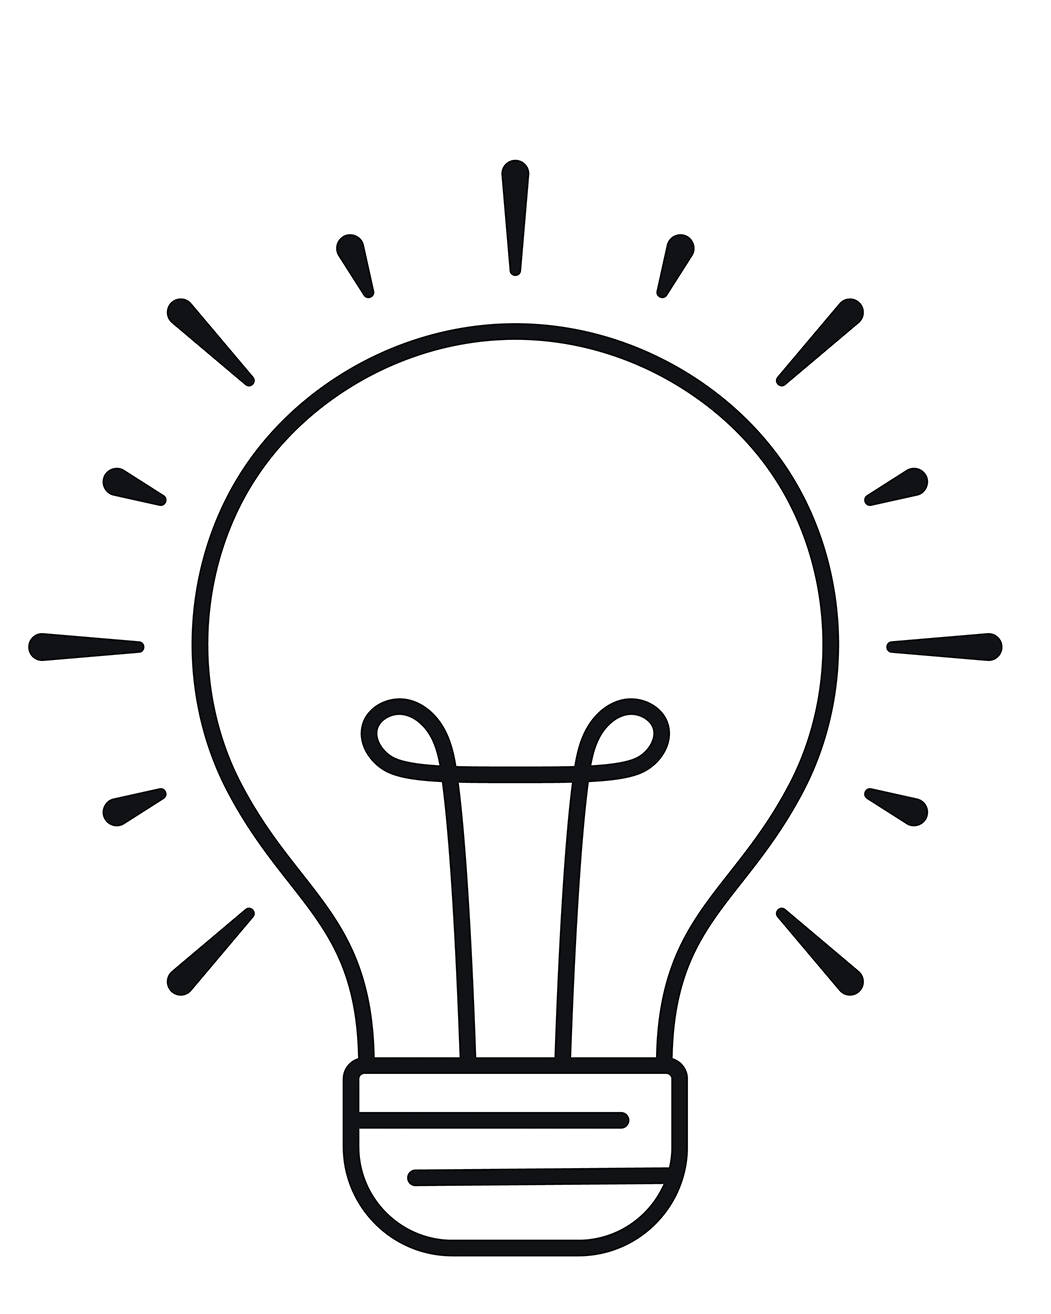
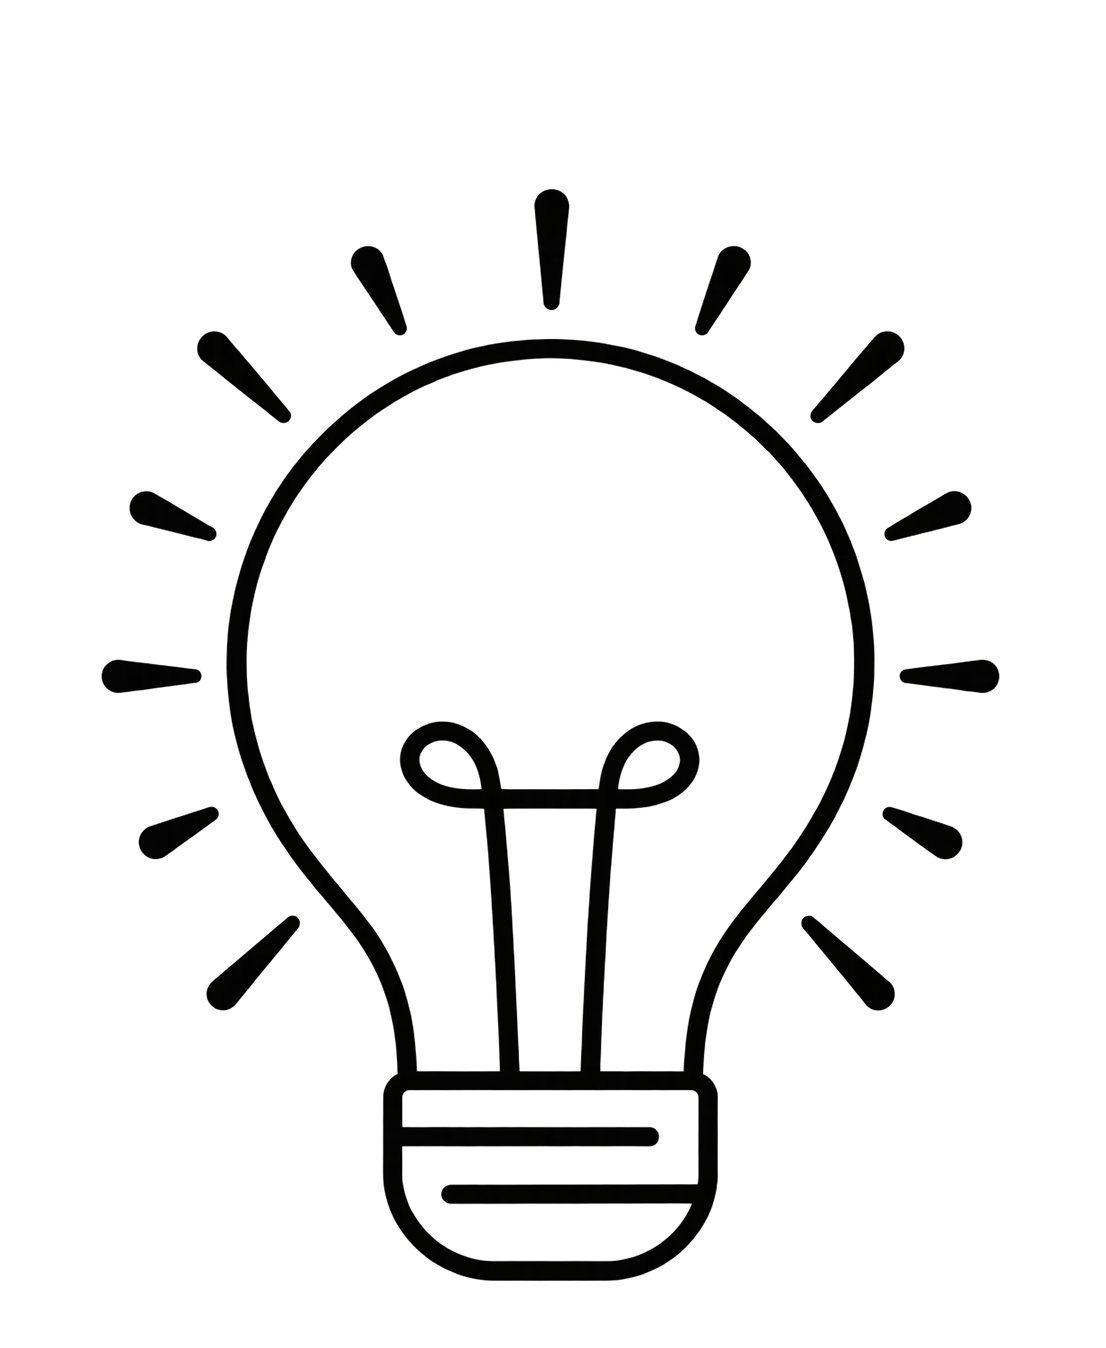
Add task screenshots and hover styling

diff --git a/index.html b/index.html
@@ -21,7 +21,8 @@
     </div> 
 
 <!-- TASK 1 section Confirm BOX -->
-<details class="task-accordion">
+ 
+<details class="task-accordion" name="tasks">
         <summary class="task-heading">
             <h2>TASK 1</h2>
             <h3>Confirm BOX</h3>
@@ -43,14 +44,15 @@
         <div class="full-width-card">
             <details class="screenshot-accordion">
                 <summary>Screenshot of the code</summary>
-                <p>Add a screenshot of the code here.</p>
+                <img class="code-screenshot" src="assets/images/t1html.JPG" alt="Task 1 HTML code screenshot">
+                <img class="code-screenshot" src="assets/images/t1js.JPG" alt="Task 1 JavaScript code screenshot">
             </details>
         </div>
     </section>
 </details>
 
 <!-- TASK 2 section Hide/show/hide button  -->
-<details class="task-accordion">
+<details class="task-accordion" name="tasks">
         <summary class="task-heading">
             <h2>TASK 2</h2>
             <h3>Hide /show / hide</h3>
@@ -72,14 +74,15 @@
         <div class="full-width-card">
             <details class="screenshot-accordion">
                 <summary>Screenshot of the code</summary>
-                <p>Add a screenshot of the code here.</p>
+                <img class="code-screenshot" src="assets/images/t2html.JPG" alt="Task 2 HTML code screenshot">
+                <img class="code-screenshot" src="assets/images/t2js.JPG" alt="Task 2 JavaScript code screenshot">
             </details>
         </div>
     </section>
 </details>
 
 <!-- TASK 3 section Move button -->
-<details class="task-accordion">
+<details class="task-accordion" name="tasks">
         <summary class="task-heading">
             <h2>TASK 3</h2>
             <h3>Move button</h3>
@@ -106,14 +109,15 @@
         <div class="full-width-card">
             <details class="screenshot-accordion">
                 <summary>Screenshot of the code</summary>
-                <p>Add a screenshot of the code here.</p>
+                <img class="code-screenshot" src="assets/images/t3html.JPG" alt="Task 3 HTML code screenshot">
+                <img class="code-screenshot" src="assets/images/t3js.JPG" alt="Task 3 JavaScript code screenshot">
             </details>
         </div>
     </section>
 </details>
 
 <!-- TASK 4 section Hide/show/hide button  -->
-<details class="task-accordion">
+<details class="task-accordion" name="tasks">
         <summary class="task-heading">
             <h2>TASK 4</h2>
             <h3>Change background color in 3 seconds</h3>
@@ -143,14 +147,15 @@
         <div class="full-width-card">
             <details class="screenshot-accordion">
                 <summary>Screenshot of the code</summary>
-                <p>Add a screenshot of the code here.</p>
+                <img class="code-screenshot" src="assets/images/t4html.JPG" alt="Task 4 HTML code screenshot">
+                <img class="code-screenshot" src="assets/images/t4js.JPG" alt="Task 4 JavaScript code screenshot">
             </details>
         </div>
     </section>
 </details>
 
 <!-- TASK 5 section Date -->
-<details class="task-accordion">
+<details class="task-accordion" name="tasks">
         <summary class="task-heading">
             <h2>TASK 5</h2>
             <h3>new Date() + greet user</h3>
@@ -174,14 +179,15 @@
         <div class="full-width-card">
             <details class="screenshot-accordion">
                 <summary>Screenshot of the code</summary>
-                <p>Add a screenshot of the code here.</p>
+                <img class="code-screenshot" src="assets/images/t5html.JPG" alt="Task 5 HTML code screenshot">
+                <img class="code-screenshot" src="assets/images/t5JS.JPG" alt="Task 5 JavaScript code screenshot">
             </details>
         </div>
     </section>
 </details>
 
 <!-- TASK 6 section Counter and calculator -->
-<details class="task-accordion">
+<details class="task-accordion" name="tasks">
         <summary class="task-heading">
             <h2>TASK 6</h2>
             <h3>Counter / calculator</h3>
@@ -208,39 +214,56 @@
         <div class="full-width-card">
             <details class="screenshot-accordion">
                 <summary>Screenshot of the code</summary>
-                <p>Add a screenshot of the code here.</p>
+                <img class="code-screenshot" src="assets/images/t6html.JPG" alt="Task 6 HTML code screenshot">
+                <img class="code-screenshot" src="assets/images/t6js.JPG" alt="Task 6 JavaScript code screenshot">
             </details>
         </div>
     </section>
 </details>
 
 <!-- TASK 7 section Lightbulb -->
-<details class="task-accordion">
+<details class="task-accordion" name="tasks">
         <summary class="task-heading">
             <h2>TASK 7</h2>
             <h3>The lightbulb: onload(), onmouseover(), onmouseout()</h3>
         </summary>
     <section class="task-section">
         <div class="task-card">
-            <p>Move your mouse over the bulb or focus it with Tab to turn it on. Move away or change focus to turn it off.</p>
+            <p>Move your mouse over the bulb to turn it on and move away to turn it off.</p>
             <img id="lightbulb" class="bulb-image" src="assets/images/off.png" alt="Lightbulb off"
-                 tabindex="0" onmouseover="setBulb(true)" onmouseout="setBulb(false)"
-                 onfocus="setBulb(true)" onblur="setBulb(false)">
+                 onmouseover="Bulbon()" onmouseout="Bulboff()" onclick="Big()">
+
         </div>
         <div>
             <h3>Annotations</h3>
-            <p style="color: white;">this is where i will explain all the code and its functionality</p>
+            <p style="color: rgb(21, 48, 31);">
+                The image starts with <strong><code>off.png</code></strong>, so the bulb is off when the page loads.
+                The <strong><code>onmouseover</code></strong> event calls <strong><code>Bulbon()</code></strong>
+                when the mouse moves over the image. This function uses <strong><code>document.getElementById("lightbulb")</code></strong>
+                to find the image and changes its <strong><code>src</code></strong> to <strong><code>onn.png</code></strong>.
+                The <strong><code>onmouseout</code></strong> event calls <strong><code>Bulboff()</code></strong>
+                when the mouse leaves, changing the image back to <strong><code>off.png</code></strong>.
+                Clicking the image calls <strong><code>Big()</code></strong>, which increases its width by
+                <strong>15 pixels</strong> each time. When its width becomes greater than
+                <strong>300 pixels</strong>, it resets to <strong>150 pixels</strong>.
+            </p>
         </div>
         <div class="full-width-card">
             <details class="screenshot-accordion">
                 <summary>Screenshot of the code</summary>
-                <p>Add a screenshot of the code here.</p>
+                <img class="code-screenshot" src="assets/images/t7html.JPG" alt="Task 7 HTML code screenshot">
+                <img class="code-screenshot" src="assets/images/t7js.JPG" alt="Task 7 JavaScript code screenshot">
             </details>
         </div>
     </section>
 </details>
 
 </main>
+<footer class="site-footer">
+    <p>&copy; All rights reserved.</p>
+    <p>Content on this page is strictly for learning purposes, as this is an assignment for the course requirements.</p>
+    <a class="linkedin-icon" href="https://www.linkedin.com/in/katarzyna-opozda" target="_blank" rel="noopener noreferrer" aria-label="Katarzyna Opozda on LinkedIn (opens in a new tab)">in</a>
+</footer>
 
 <script src="assets/JS/Task1.js"></script>
 </body>

diff --git a/assets/JS/Task1.js b/assets/JS/Task1.js
@@ -1,4 +1,4 @@
-// AGE CONFIRM FUNCTION
+// TASK 1 AGE CONFIRM FUNCTION
 function Age() {
     let age = prompt("What is your age?");
     if (age>=18) {
@@ -7,6 +7,7 @@ function Age() {
         document.getElementById("demo").innerHTML = "You are Not an adult: you can not go to the concert";
     }
 }
+
 // HIDE BUTTON FUNCTION
 function hide() {
     let button = document.getElementById("hideme");
@@ -16,25 +17,22 @@ function hide() {
         button.style.display = "none";
     }
 }
-// MOVING BUTTON FUNCTION
+
+// TASK 3 MOVING BUTTON FUNCTION
 function move() {
     let button = document.getElementById("moveme");
         button.style.position = "relative";
         button.style.left = button.style.left === "100px" ? "0px" : "100px";
 }
-// CHANGE BACKGROUND COLOR FUNCTION
+
+// TASK 4 CHANGE BACKGROUND COLOR FUNCTION
 function changeBG(color) {
     setTimeout(function() {
         document.body.style.backgroundColor = color;
     }, 2000);
-}
 
-function setBulb(isOn) {
-    let bulb = document.getElementById("lightbulb");
-    bulb.src = isOn ? "assets/images/on.png" : "assets/images/off.png";
-    bulb.alt = isOn ? "Lightbulb on" : "Lightbulb off";
 }
-
+// TASK 5 GREET USER FUNCTION
 function greetUser() {
     let name = prompt("What is your name?");
     let day = prompt("Please enter if it is morning, afternoon or evening");
@@ -51,7 +49,7 @@ function greetUser() {
     document.getElementById("gu").innerHTML += "<br></br>" + " Today is " + new Date();
 }
 
-// COUNTER FUNCTIONS
+// TASK 6 COUNTER FUNCTIONS
 let counter = 0;
 function increase() {
     counter++;
@@ -62,3 +60,47 @@ function decrease() {
     counter--;
     document.getElementById("count").innerHTML = counter;
 }
+
+// TASK 7 LIGHTBULB FUNCTION 
+function Bulbon() {
+    let on = document.getElementById("lightbulb");
+    on.src = "assets/images/onn.png";
+}
+function Bulboff() {
+    let off = document.getElementById("lightbulb");
+    off.src = "assets/images/off.png";
+}
+function Big() {
+    let bulb = document.getElementById("lightbulb");
+    bulb.style.width = bulb.offsetWidth + 15 + "px";
+    if (bulb.offsetWidth > 300) {
+        bulb.style.width = "150px";
+    }
+}
+
+// BLOCK BROWSER Function to prevent right-click, copy, cut, select, and certain key combinations
+(function () {
+    function blockBrowserAction(event) {
+        event.preventDefault();
+    }
+
+    document.addEventListener("contextmenu", blockBrowserAction);
+    document.addEventListener("copy", blockBrowserAction);
+    document.addEventListener("cut", blockBrowserAction);
+    document.addEventListener("selectstart", blockBrowserAction);
+
+    document.addEventListener("keydown", function (event) {
+        const key = event.key.toLowerCase();
+        const modifier = event.ctrlKey || event.metaKey;
+        const blockedShortcuts = ["a", "c", "p", "s", "u", "x"];
+        const developerToolsShortcuts = ["c", "i", "j"];
+
+        if (
+            event.key === "F12" ||
+            (modifier && blockedShortcuts.includes(key)) ||
+            (modifier && event.shiftKey && developerToolsShortcuts.includes(key))
+        ) {
+            event.preventDefault();
+        }
+    });
+})();

diff --git a/assets/CSS/global.css b/assets/CSS/global.css
@@ -11,6 +11,12 @@ body {
     font-family: Arial, sans-serif;
 }
 
+body,
+body * {
+    -webkit-user-select: none;
+    user-select: none;
+}
+
 .page-content {
     box-sizing: border-box;
     width: calc(100% - 4rem);
@@ -42,13 +48,15 @@ border-color: rgb(39, 51, 45);
 
 .task-section > div {
     margin-bottom: 0;
+    overflow-wrap: anywhere;
 }
 
 .full-width-card {
     grid-column: 1 / -1;
 }
 
-.site-header {
+.site-header,
+.site-footer {
     padding: 1rem;
     background-color: #0d302a;
     text-align: center;
@@ -60,6 +68,31 @@ border-color: rgb(39, 51, 45);
     height: auto;
     margin: 0 auto;
     opacity: 0.8;
+}
+
+.site-footer {
+    color: #ffffc4;
+}
+
+.site-footer p {
+    margin: 0 0 0.75rem;
+    font-size: 0.9rem;
+}
+
+.linkedin-icon {
+    display: inline-block;
+    padding: 0.2rem 0.4rem;
+    border-radius: 4px;
+    background-color: #0a66c2;
+    color: #fff;
+    font-size: 1.2rem;
+    font-weight: bold;
+    text-decoration: none;
+}
+
+.linkedin-icon:focus-visible {
+    outline: 2px solid #fff;
+    outline-offset: 3px;
 }
 
 .course-banner {

diff --git a/assets/CSS/screenshot-accordion.css b/assets/CSS/screenshot-accordion.css
@@ -10,6 +10,21 @@
 }
 
 .screenshot-accordion img {
+    display: block;
     max-width: 100%;
     height: auto;
+    margin: 1rem auto;
+    border-radius: 12px;
+    box-shadow: 0 4px 8px rgba(0, 0, 0, 0.1);
+
+}
+
+.code-screenshot {
+    position: relative;
+    transition: transform 0.2s ease;
+}
+
+.code-screenshot:hover {
+    z-index: 1;
+    transform: scale(1.05);
 }
